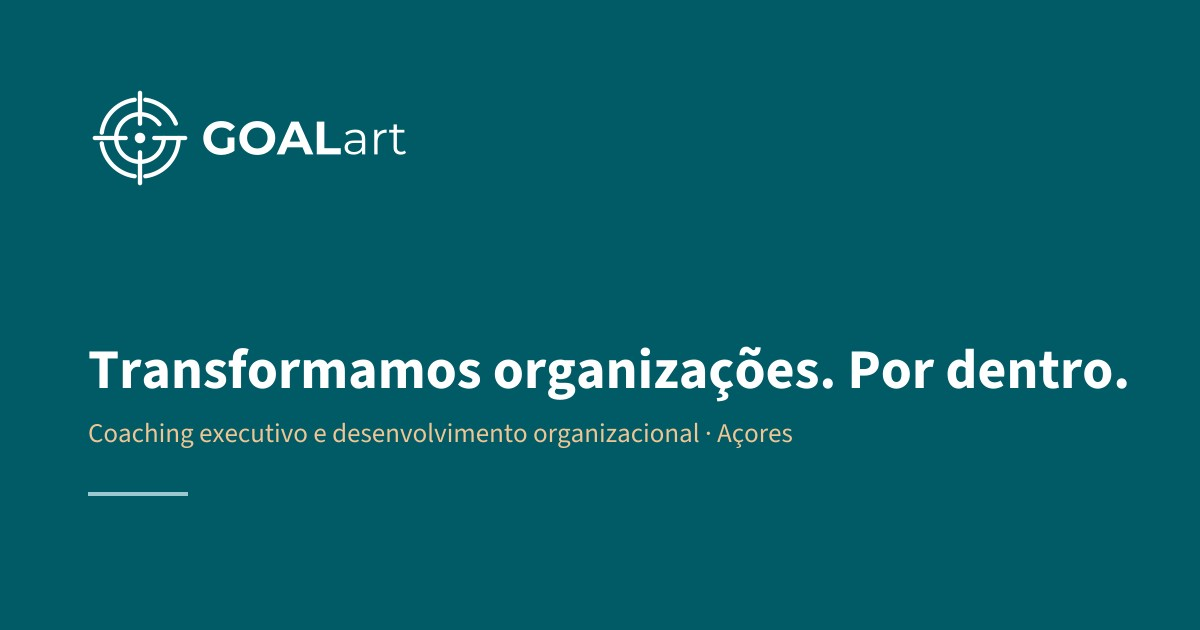
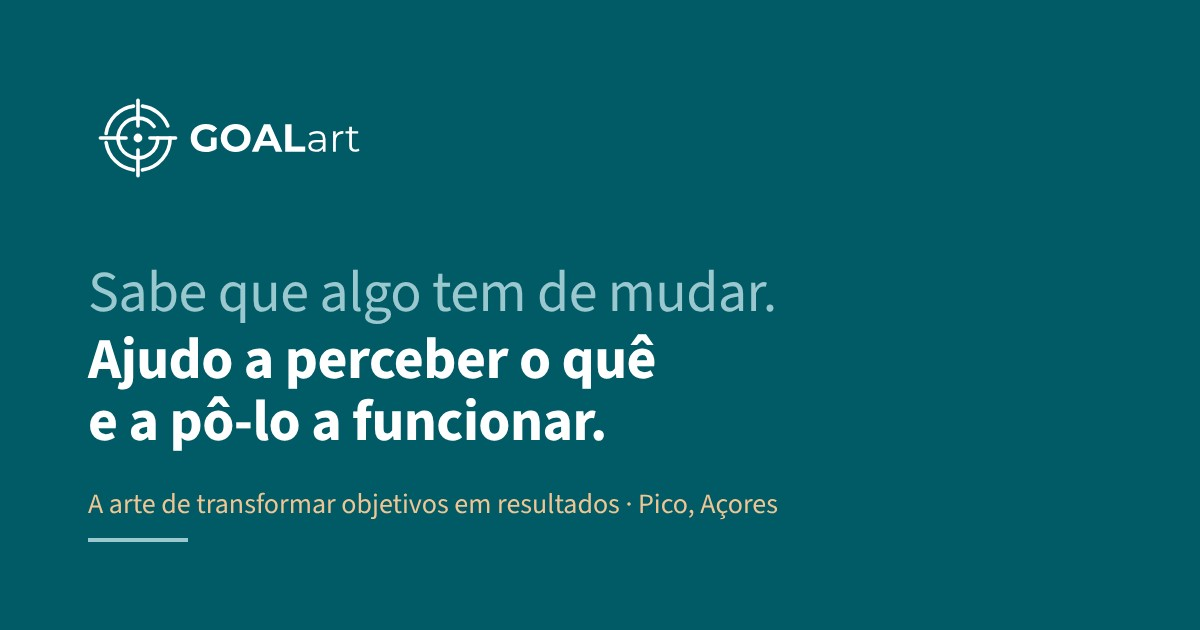
Add files via upload

diff --git a/index.html b/index.html
@@ -4,12 +4,12 @@
 <meta charset="utf-8">
 <meta name="viewport" content="width=device-width, initial-scale=1, viewport-fit=cover">
 <title>GOALart — Gestão e liderança | Hugo Ávila Goulart, Açores</title>
-<meta name="description" content="Tudo acaba em cima da sua secretária? Gestão e liderança para empresas e IPSS, a partir dos Açores: pessoas, números e operações alinhados. Hugo Ávila Goulart, Lajes do Pico.">
+<meta name="description" content="Sabe que algo tem de mudar? Gestão e liderança para empresas e IPSS, a partir dos Açores: pessoas, números e operações alinhados. Hugo Ávila Goulart, Lajes do Pico.">
 <link rel="canonical" href="https://goalart.pt/">
 <meta property="og:type" content="website">
 <meta property="og:locale" content="pt_PT">
 <meta property="og:site_name" content="GOALart">
-<meta property="og:title" content="Tudo acaba em cima da sua secretária? A sua organização não pode depender só de si.">
+<meta property="og:title" content="Sabe que algo tem de mudar. Ajudo a perceber o quê e a pô-lo a funcionar.">
 <meta property="og:description" content="Pessoas, números e operações alinhados. GOALart, Hugo Ávila Goulart, Açores.">
 <meta property="og:url" content="https://goalart.pt/">
 <meta property="og:image" content="https://goalart.pt/img/partilha.jpg">
@@ -438,8 +438,8 @@ h1 > [data-escrever] .cursor{background:var(--cv)!important}
 <main id="conteudo">
 <section id="topo" class="wrap hero">
 <div>
-<h1 class="pet"><span data-escrever="300">Tudo acaba em cima da sua secretária?</span><span class="hl d2 c2">A sua organização não pode depender só de si.</span></h1>
-<p class="lead hl d3">Não há ninguém entre si e a equipa? Há chefias que executam e tratam da operação, mas não lideram? As decisões vão todas parar a si e não sobra tempo para planear? <span class="lead-res">É aí que entro: pessoas, números e operações alinhados.</span></p>
+<h1 class="pet"><span data-escrever="300">Sabe que algo tem de mudar.</span><span class="hl d2 c2">Ajudo a perceber o quê e a <span style="display:inline;white-space:nowrap">pô-lo</span> a funcionar.</span></h1>
+<p class="lead hl d3">Talvez já tenha tentado várias coisas. Melhorou pouco, ou durou pouco? Frequentemente, o problema é resolver o sintoma sem compreender a causa. <span class="lead-res">É aí que entro: pessoas, números e operações alinhados.</span></p>
 <div class="acoes hl d4">
 <a class="btn btn-c" href="#contacto">Marcar uma reunião de diagnóstico</a>
 <a class="lk" href="#situacoes">Ver o que resolvo</a>
@@ -567,7 +567,7 @@ h1 > [data-escrever] .cursor{background:var(--cv)!important}
 </div>
 <footer class="rodape">
 <div class="wrap">
-<div class="ass"><img src="img/goalart_horizontal_negativo.svg" alt="GOALart" width="127" height="45"><span class="slogan">A arte de cumprir objetivos</span></div>
+<div class="ass"><img src="img/goalart_horizontal_negativo.svg" alt="GOALart" width="127" height="45"><span class="slogan">A arte de transformar objetivos em resultados</span></div>
 <div class="end"><nav class="redes" aria-label="Redes sociais"><a href="https://www.linkedin.com/in/avilagoulart/" target="_blank" rel="noopener" aria-label="LinkedIn (abre noutra janela)"><svg viewBox="0 0 24 24" width="18" height="18" aria-hidden="true"><path fill="currentColor" d="M4.98 3.5a2.5 2.5 0 1 1 0 5 2.5 2.5 0 0 1 0-5zM3 9.5h4v11H3zM9.5 9.5h3.8v1.6h.1c.5-1 1.8-2 3.8-2 4 0 4.8 2.6 4.8 6v5.4h-4v-4.8c0-1.2 0-2.6-1.6-2.6s-1.9 1.3-1.9 2.5v4.9h-4z"/></svg></a><a href="https://www.instagram.com/hugo.avilagoulart" target="_blank" rel="noopener" aria-label="Instagram (abre noutra janela)"><svg viewBox="0 0 24 24" width="18" height="18" aria-hidden="true"><rect x="3" y="3" width="18" height="18" rx="5" fill="none" stroke="currentColor" stroke-width="1.8"/><circle cx="12" cy="12" r="4.2" fill="none" stroke="currentColor" stroke-width="1.8"/><circle cx="17.3" cy="6.7" r="1.2" fill="currentColor"/></svg></a><!-- FACEBOOK: <a href="URL" target="_blank" rel="noopener" aria-label="Facebook (abre noutra janela)"><svg viewBox="0 0 24 24" width="18" height="18" aria-hidden="true"><path fill="currentColor" d="M13.5 21v-7.5h2.6l.4-3h-3V8.6c0-.9.3-1.5 1.6-1.5h1.6V4.4c-.3 0-1.2-.1-2.3-.1-2.3 0-3.9 1.4-3.9 4v2.2H8v3h2.5V21z"/></svg></a> --></nav><span>Uma marca do Grupo</span><a class="grupo" href="https://avilagoulart.pt/" target="_blank" rel="noopener" aria-label="Grupo Ávila Goulart (abre noutra janela)"><img src="img/avilagoulart_horizontal_negativo.svg" alt="Grupo Ávila Goulart" width="114" height="32"></a></div>
 </div>
 <div class="wrap legal"><p>ÁVILA GOULART, UNIPESSOAL LDA · Sede: Rua Dr. Machado Serpa, n.º 9, 9930-146 Lajes do Pico</p><p>Capital social: 5.000,00 € · NIPC e matrícula na Conservatória do Registo Comercial: 513484132</p><p><a href="privacidade.html">Política de privacidade</a> · <a href="https://www.livroreclamacoes.pt/Inicio/" target="_blank" rel="noopener">Livro de Reclamações Eletrónico</a> · Resolução alternativa de litígios: <a href="https://www.consumidor.gov.pt/" target="_blank" rel="noopener">Portal do Consumidor</a></p></div>

diff --git a/coaching-executivo.html b/coaching-executivo.html
@@ -469,7 +469,7 @@ html{scroll-behavior:auto}
 </div>
 <footer class="rodape">
 <div class="wrap">
-<div class="ass"><img src="img/goalart_horizontal_negativo.svg" alt="GOALart" width="127" height="45"><span class="slogan">A arte de cumprir objetivos</span></div>
+<div class="ass"><img src="img/goalart_horizontal_negativo.svg" alt="GOALart" width="127" height="45"><span class="slogan">A arte de transformar objetivos em resultados</span></div>
 <div class="end"><nav class="redes" aria-label="Redes sociais"><a href="https://www.linkedin.com/in/avilagoulart/" target="_blank" rel="noopener" aria-label="LinkedIn (abre noutra janela)"><svg viewBox="0 0 24 24" width="18" height="18" aria-hidden="true"><path fill="currentColor" d="M4.98 3.5a2.5 2.5 0 1 1 0 5 2.5 2.5 0 0 1 0-5zM3 9.5h4v11H3zM9.5 9.5h3.8v1.6h.1c.5-1 1.8-2 3.8-2 4 0 4.8 2.6 4.8 6v5.4h-4v-4.8c0-1.2 0-2.6-1.6-2.6s-1.9 1.3-1.9 2.5v4.9h-4z"/></svg></a><a href="https://www.instagram.com/hugo.avilagoulart" target="_blank" rel="noopener" aria-label="Instagram (abre noutra janela)"><svg viewBox="0 0 24 24" width="18" height="18" aria-hidden="true"><rect x="3" y="3" width="18" height="18" rx="5" fill="none" stroke="currentColor" stroke-width="1.8"/><circle cx="12" cy="12" r="4.2" fill="none" stroke="currentColor" stroke-width="1.8"/><circle cx="17.3" cy="6.7" r="1.2" fill="currentColor"/></svg></a><!-- FACEBOOK: <a href="URL" target="_blank" rel="noopener" aria-label="Facebook (abre noutra janela)"><svg viewBox="0 0 24 24" width="18" height="18" aria-hidden="true"><path fill="currentColor" d="M13.5 21v-7.5h2.6l.4-3h-3V8.6c0-.9.3-1.5 1.6-1.5h1.6V4.4c-.3 0-1.2-.1-2.3-.1-2.3 0-3.9 1.4-3.9 4v2.2H8v3h2.5V21z"/></svg></a> --></nav><span>Uma marca do Grupo</span><a class="grupo" href="https://avilagoulart.pt/" target="_blank" rel="noopener" aria-label="Grupo Ávila Goulart (abre noutra janela)"><img src="img/avilagoulart_horizontal_negativo.svg" alt="Grupo Ávila Goulart" width="114" height="32"></a></div>
 </div>
 <div class="wrap legal"><p>ÁVILA GOULART, UNIPESSOAL LDA · Sede: Rua Dr. Machado Serpa, n.º 9, 9930-146 Lajes do Pico</p><p>Capital social: 5.000,00 € · NIPC e matrícula na Conservatória do Registo Comercial: 513484132</p><p><a href="privacidade.html">Política de privacidade</a> · <a href="https://www.livroreclamacoes.pt/Inicio/" target="_blank" rel="noopener">Livro de Reclamações Eletrónico</a> · Resolução alternativa de litígios: <a href="https://www.consumidor.gov.pt/" target="_blank" rel="noopener">Portal do Consumidor</a></p></div>

diff --git a/direcao-tempo-parcial.html b/direcao-tempo-parcial.html
@@ -456,7 +456,7 @@ html{scroll-behavior:auto}
 </div>
 <footer class="rodape">
 <div class="wrap">
-<div class="ass"><img src="img/goalart_horizontal_negativo.svg" alt="GOALart" width="127" height="45"><span class="slogan">A arte de cumprir objetivos</span></div>
+<div class="ass"><img src="img/goalart_horizontal_negativo.svg" alt="GOALart" width="127" height="45"><span class="slogan">A arte de transformar objetivos em resultados</span></div>
 <div class="end"><nav class="redes" aria-label="Redes sociais"><a href="https://www.linkedin.com/in/avilagoulart/" target="_blank" rel="noopener" aria-label="LinkedIn (abre noutra janela)"><svg viewBox="0 0 24 24" width="18" height="18" aria-hidden="true"><path fill="currentColor" d="M4.98 3.5a2.5 2.5 0 1 1 0 5 2.5 2.5 0 0 1 0-5zM3 9.5h4v11H3zM9.5 9.5h3.8v1.6h.1c.5-1 1.8-2 3.8-2 4 0 4.8 2.6 4.8 6v5.4h-4v-4.8c0-1.2 0-2.6-1.6-2.6s-1.9 1.3-1.9 2.5v4.9h-4z"/></svg></a><a href="https://www.instagram.com/hugo.avilagoulart" target="_blank" rel="noopener" aria-label="Instagram (abre noutra janela)"><svg viewBox="0 0 24 24" width="18" height="18" aria-hidden="true"><rect x="3" y="3" width="18" height="18" rx="5" fill="none" stroke="currentColor" stroke-width="1.8"/><circle cx="12" cy="12" r="4.2" fill="none" stroke="currentColor" stroke-width="1.8"/><circle cx="17.3" cy="6.7" r="1.2" fill="currentColor"/></svg></a><!-- FACEBOOK: <a href="URL" target="_blank" rel="noopener" aria-label="Facebook (abre noutra janela)"><svg viewBox="0 0 24 24" width="18" height="18" aria-hidden="true"><path fill="currentColor" d="M13.5 21v-7.5h2.6l.4-3h-3V8.6c0-.9.3-1.5 1.6-1.5h1.6V4.4c-.3 0-1.2-.1-2.3-.1-2.3 0-3.9 1.4-3.9 4v2.2H8v3h2.5V21z"/></svg></a> --></nav><span>Uma marca do Grupo</span><a class="grupo" href="https://avilagoulart.pt/" target="_blank" rel="noopener" aria-label="Grupo Ávila Goulart (abre noutra janela)"><img src="img/avilagoulart_horizontal_negativo.svg" alt="Grupo Ávila Goulart" width="114" height="32"></a></div>
 </div>
 <div class="wrap legal"><p>ÁVILA GOULART, UNIPESSOAL LDA · Sede: Rua Dr. Machado Serpa, n.º 9, 9930-146 Lajes do Pico</p><p>Capital social: 5.000,00 € · NIPC e matrícula na Conservatória do Registo Comercial: 513484132</p><p><a href="privacidade.html">Política de privacidade</a> · <a href="https://www.livroreclamacoes.pt/Inicio/" target="_blank" rel="noopener">Livro de Reclamações Eletrónico</a> · Resolução alternativa de litígios: <a href="https://www.consumidor.gov.pt/" target="_blank" rel="noopener">Portal do Consumidor</a></p></div>

diff --git a/formacao-palestras.html b/formacao-palestras.html
@@ -391,7 +391,7 @@ html{scroll-behavior:auto}
 </div>
 <footer class="rodape">
 <div class="wrap">
-<div class="ass"><img src="img/goalart_horizontal_negativo.svg" alt="GOALart" width="127" height="45"><span class="slogan">A arte de cumprir objetivos</span></div>
+<div class="ass"><img src="img/goalart_horizontal_negativo.svg" alt="GOALart" width="127" height="45"><span class="slogan">A arte de transformar objetivos em resultados</span></div>
 <div class="end"><nav class="redes" aria-label="Redes sociais"><a href="https://www.linkedin.com/in/avilagoulart/" target="_blank" rel="noopener" aria-label="LinkedIn (abre noutra janela)"><svg viewBox="0 0 24 24" width="18" height="18" aria-hidden="true"><path fill="currentColor" d="M4.98 3.5a2.5 2.5 0 1 1 0 5 2.5 2.5 0 0 1 0-5zM3 9.5h4v11H3zM9.5 9.5h3.8v1.6h.1c.5-1 1.8-2 3.8-2 4 0 4.8 2.6 4.8 6v5.4h-4v-4.8c0-1.2 0-2.6-1.6-2.6s-1.9 1.3-1.9 2.5v4.9h-4z"/></svg></a><a href="https://www.instagram.com/hugo.avilagoulart" target="_blank" rel="noopener" aria-label="Instagram (abre noutra janela)"><svg viewBox="0 0 24 24" width="18" height="18" aria-hidden="true"><rect x="3" y="3" width="18" height="18" rx="5" fill="none" stroke="currentColor" stroke-width="1.8"/><circle cx="12" cy="12" r="4.2" fill="none" stroke="currentColor" stroke-width="1.8"/><circle cx="17.3" cy="6.7" r="1.2" fill="currentColor"/></svg></a><!-- FACEBOOK: <a href="URL" target="_blank" rel="noopener" aria-label="Facebook (abre noutra janela)"><svg viewBox="0 0 24 24" width="18" height="18" aria-hidden="true"><path fill="currentColor" d="M13.5 21v-7.5h2.6l.4-3h-3V8.6c0-.9.3-1.5 1.6-1.5h1.6V4.4c-.3 0-1.2-.1-2.3-.1-2.3 0-3.9 1.4-3.9 4v2.2H8v3h2.5V21z"/></svg></a> --></nav><span>Uma marca do Grupo</span><a class="grupo" href="https://avilagoulart.pt/" target="_blank" rel="noopener" aria-label="Grupo Ávila Goulart (abre noutra janela)"><img src="img/avilagoulart_horizontal_negativo.svg" alt="Grupo Ávila Goulart" width="114" height="32"></a></div>
 </div>
 <div class="wrap legal"><p>ÁVILA GOULART, UNIPESSOAL LDA · Sede: Rua Dr. Machado Serpa, n.º 9, 9930-146 Lajes do Pico</p><p>Capital social: 5.000,00 € · NIPC e matrícula na Conservatória do Registo Comercial: 513484132</p><p><a href="privacidade.html">Política de privacidade</a> · <a href="https://www.livroreclamacoes.pt/Inicio/" target="_blank" rel="noopener">Livro de Reclamações Eletrónico</a> · Resolução alternativa de litígios: <a href="https://www.consumidor.gov.pt/" target="_blank" rel="noopener">Portal do Consumidor</a></p></div>
